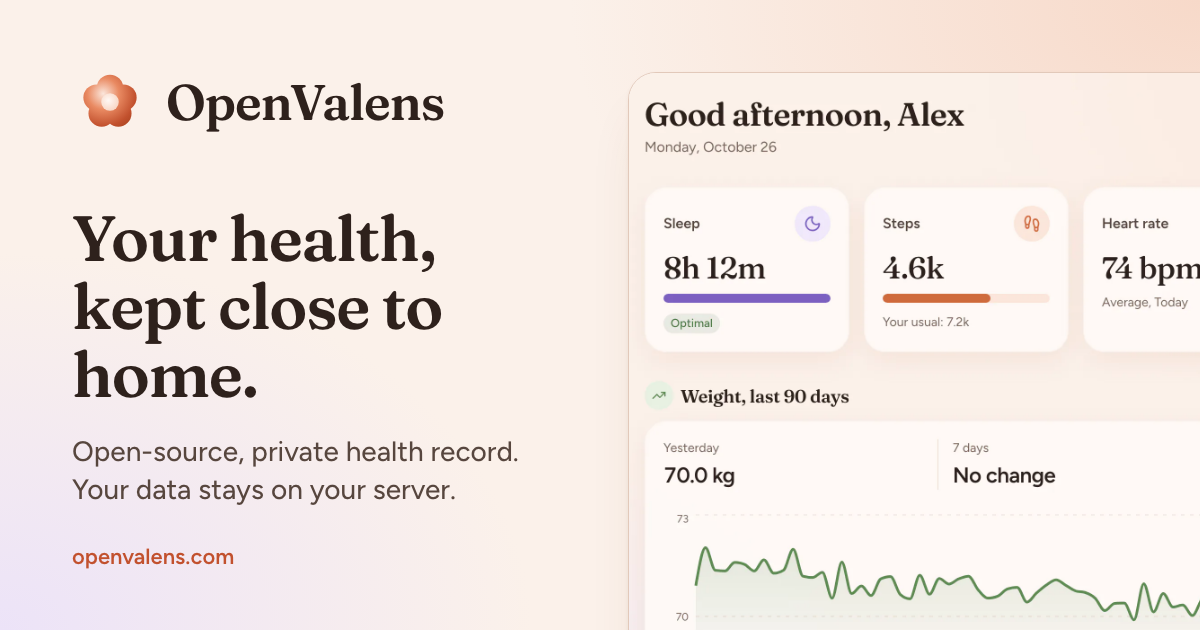
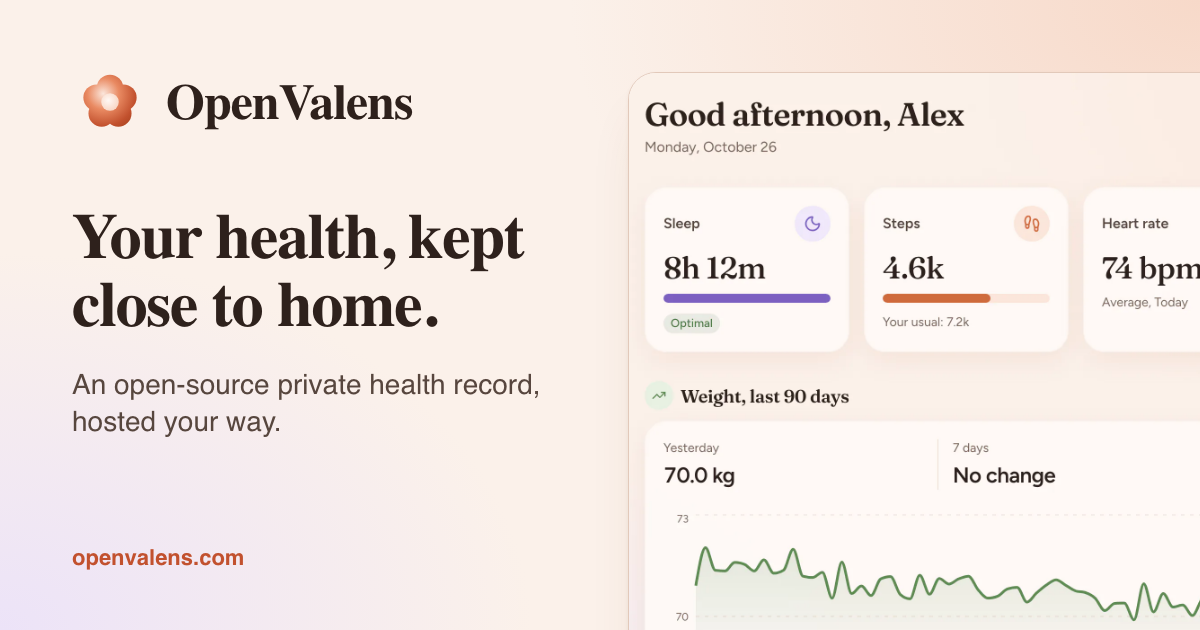
fix(site): clarify launch details and format landing page
Refs #309

diff --git a/apps/site/src/index.html b/apps/site/src/index.html
@@ -52,8 +52,8 @@
       >
       <nav aria-label="Sections">
         <a href="#features">What it does</a>
-          <a href="#ways-to-use">Cloud or self-host</a>
-          <a href="#pricing">Pricing</a>
+        <a href="#ways-to-use">Cloud or self-host</a>
+        <a href="#pricing">Pricing</a>
         <a href="#install">Install</a>
         <a href="https://github.com/nip10/openvalens">Source</a>
       </nav>
@@ -63,7 +63,10 @@
       <section class="wrap hero" aria-labelledby="hero-title">
         <div class="hero-text">
           <h1 id="hero-title">Your health, kept close to home.</h1>
-          <p class="lede">A private place for your health records. Choose a hosted Cloud workspace when it is available, or run OpenValens on your own server.</p>
+          <p class="lede">
+            A private place for your health records. Choose a hosted Cloud workspace when it is
+            available, or run OpenValens on your own server.
+          </p>
           <div class="actions">
             <a class="button primary" href="#ways-to-use">Explore your options</a>
             <a class="button" href="https://github.com/nip10/openvalens">Read the source</a>
@@ -98,31 +101,45 @@
           <article class="choice-card cloud-card">
             <span class="availability">Cloud · coming soon</span>
             <h3>A workspace, looked after for you</h3>
-            <p>OpenValens Cloud is planned to run in the EU. The hosted service is not available yet; sign-up and trial are not live.</p>
+            <p>
+              OpenValens Cloud is planned to run in the EU. The hosted service is not available yet;
+              sign-up and trial are not live.
+            </p>
             <p class="choice-note">Planned price: €7.99/month or €69/year, VAT included.</p>
           </article>
           <article class="choice-card">
             <span class="availability">Available to run yourself</span>
             <h3>Your server, your setup</h3>
-            <p>Install the same OpenValens app on a server you manage. You choose the host and are responsible for its operation and data.</p>
-            <a class="text-link" href="#install">Read the self-hosting guide <span aria-hidden="true">↗</span></a>
+            <p>
+              The OpenValens software is free. Install the same app on a server you manage; you
+              choose and pay for hosting, and are responsible for its operation and data.
+            </p>
+            <a class="text-link" href="#install"
+              >Read the self-hosting guide <span aria-hidden="true">↗</span></a
+            >
           </article>
         </div>
-        <p class="shared-note">Both options use the same open-source app. Export your records or delete them at any time.</p>
+        <p class="shared-note">
+          Both options use the same open-source app. Export your records or delete them at any time.
+        </p>
       </section>
 
       <section id="pricing" class="wrap pricing" aria-labelledby="pricing-title">
         <div class="pricing-intro">
           <p class="eyebrow">Simple, planned pricing</p>
-          <h2 id="pricing-title">One plan. No surprises.</h2>
+          <h2 id="pricing-title">One Cloud plan.</h2>
           <p>Cloud is not live yet, so these prices are for the planned service.</p>
         </div>
         <div class="price-card">
-          <div class="price-pair"><p><strong>€7.99</strong><span> / month</span></p><p><strong>€69</strong><span> / year</span></p></div>
+          <div class="price-pair">
+            <p><strong>€7.99</strong><span> / month</span></p>
+            <p><strong>€69</strong><span> / year</span></p>
+          </div>
           <p class="vat-note">VAT included</p>
           <ul class="price-includes">
             <li>30-day free trial, no card required</li>
             <li>AI coach with a monthly usage cap</li>
+            <li>The workspace owner pays; invited members are covered</li>
             <li>Export or delete your records at any time</li>
             <li>The same app and features</li>
           </ul>
@@ -297,9 +314,15 @@
             <strong>Off-site backups are opt-in.</strong> Encrypted daily backups stay on the host
             until you add a bucket.
           </li>
-          <li><strong>Cloud is not live yet.</strong> There is no public sign-up or hosted workspace today.</li>
+          <li>
+            <strong>Cloud is not live yet.</strong> There is no public sign-up or hosted workspace
+            today.
+          </li>
           <li><strong>Mobile apps are not published in the stores yet.</strong></li>
-          <li><strong>No wearable-vendor connections</strong> yet.</li>
+          <li>
+            <strong>Wearable connections need setup.</strong> Vendor connections are optional and
+            require provider configuration.
+          </li>
         </ul>
       </section>
 

diff --git a/apps/site/src/styles.css b/apps/site/src/styles.css
@@ -347,11 +347,12 @@ pre {
   line-height: 1.5;
 }
 
-.eyebrow, .availability {
+.eyebrow,
+.availability {
   color: var(--color-accent-2);
-  font-size: .82rem;
+  font-size: 0.82rem;
   font-weight: 650;
-  letter-spacing: .035em;
+  letter-spacing: 0.035em;
 }
 
 .choice-grid {
@@ -360,7 +361,8 @@ pre {
   gap: 1.25rem;
 }
 
-.choice-card, .price-card {
+.choice-card,
+.price-card {
   padding: clamp(1.5rem, 4vw, 2.5rem);
   border: 1px solid var(--color-rule);
   border-radius: var(--radius-card);
@@ -368,26 +370,77 @@ pre {
   box-shadow: var(--shadow-card);
 }
 
-.choice-card h3 { margin: 1rem 0 .75rem; font-size: 1.55rem; }
-.choice-card p { max-width: 38rem; }
-.cloud-card { background: linear-gradient(145deg, var(--color-sheet), var(--color-paper-2)); }
-.choice-note { color: var(--color-ink-3); font-size: .95rem; }
-.text-link { font-weight: 650; }
-.shared-note { margin: 1.5rem 0 0; color: var(--color-ink-3); }
+.choice-card h3 {
+  margin: 1rem 0 0.75rem;
+  font-size: 1.55rem;
+}
+.choice-card p {
+  max-width: 38rem;
+}
+.cloud-card {
+  background: linear-gradient(145deg, var(--color-sheet), var(--color-paper-2));
+}
+.choice-note {
+  color: var(--color-ink-3);
+  font-size: 0.95rem;
+}
+.text-link {
+  font-weight: 650;
+}
+.shared-note {
+  margin: 1.5rem 0 0;
+  color: var(--color-ink-3);
+}
 
-.pricing { display: grid; gap: 2rem; align-items: center; }
-.pricing-intro h2 { margin-bottom: 1rem; }
-.price-card { max-width: 38rem; width: 100%; }
-.price-pair { display: flex; flex-wrap: wrap; gap: 1rem 2.5rem; }
-.price-pair p { margin: 0; }
-.price-pair strong { font: 600 clamp(2.4rem, 6vw, 3.4rem)/1 var(--font-display); color: var(--color-ink); }
-.price-pair span, .vat-note { color: var(--color-ink-3); }
-.price-includes { margin: 1.5rem 0; padding-left: 1.25rem; }
-.price-includes li { padding: .25rem 0; }
-.not-live { margin: 0; padding: .85rem 1rem; border-radius: var(--radius-control); background: var(--color-paper-2); color: var(--color-ink); font-weight: 600; }
+.pricing {
+  display: grid;
+  gap: 2rem;
+  align-items: center;
+}
+.pricing-intro h2 {
+  margin-bottom: 1rem;
+}
+.price-card {
+  max-width: 38rem;
+  width: 100%;
+}
+.price-pair {
+  display: flex;
+  flex-wrap: wrap;
+  gap: 1rem 2.5rem;
+}
+.price-pair p {
+  margin: 0;
+}
+.price-pair strong {
+  font: 600 clamp(2.4rem, 6vw, 3.4rem)/1 var(--font-display);
+  color: var(--color-ink);
+}
+.price-pair span,
+.vat-note {
+  color: var(--color-ink-3);
+}
+.price-includes {
+  margin: 1.5rem 0;
+  padding-left: 1.25rem;
+}
+.price-includes li {
+  padding: 0.25rem 0;
+}
+.not-live {
+  margin: 0;
+  padding: 0.85rem 1rem;
+  border-radius: var(--radius-control);
+  background: var(--color-paper-2);
+  color: var(--color-ink);
+  font-weight: 600;
+}
 
 @media (min-width: 60rem) {
-  .pricing { grid-template-columns: minmax(0, 1fr) minmax(0, 1fr); gap: 4rem; }
+  .pricing {
+    grid-template-columns: minmax(0, 1fr) minmax(0, 1fr);
+    gap: 4rem;
+  }
 }
 
 .shot {

diff --git a/apps/site/scripts/build.test.ts b/apps/site/scripts/build.test.ts
@@ -221,6 +221,10 @@ describe("site copy", () => {
     expect(text).toContain("VAT included");
     expect(text).toContain("30-day free trial, no card required");
     expect(text).toContain("AI coach with a monthly usage cap");
+    expect(text).toContain("The workspace owner pays; invited members are covered");
+    expect(text).toContain("software is free");
+    expect(text).toContain("you choose and pay for hosting");
+    expect(text).not.toContain("One plan. No surprises.");
     expect(text).toContain("It never means your records are public");
     expect(text).toContain("OpenValens is not a medical device.");
   });

diff --git a/README.md b/README.md
@@ -60,7 +60,7 @@ records), never a real person's data (see [Landing site](#landing-site))._
   ([Backups](docs/self-hosting/backup.md)).
 - Cloud hosting and public sign-up are not live yet; self-hosting is available.
 - No published container images; the install builds from source (#129).
-- Mobile apps are not published in the stores yet, and there are no direct wearable-vendor connections
+- Mobile apps are not published in the stores yet; wearable vendor connections are available but need provider configuration.
   yet (#60).
 
 **Intended purpose.** OpenValens is a personal record-keeping and
